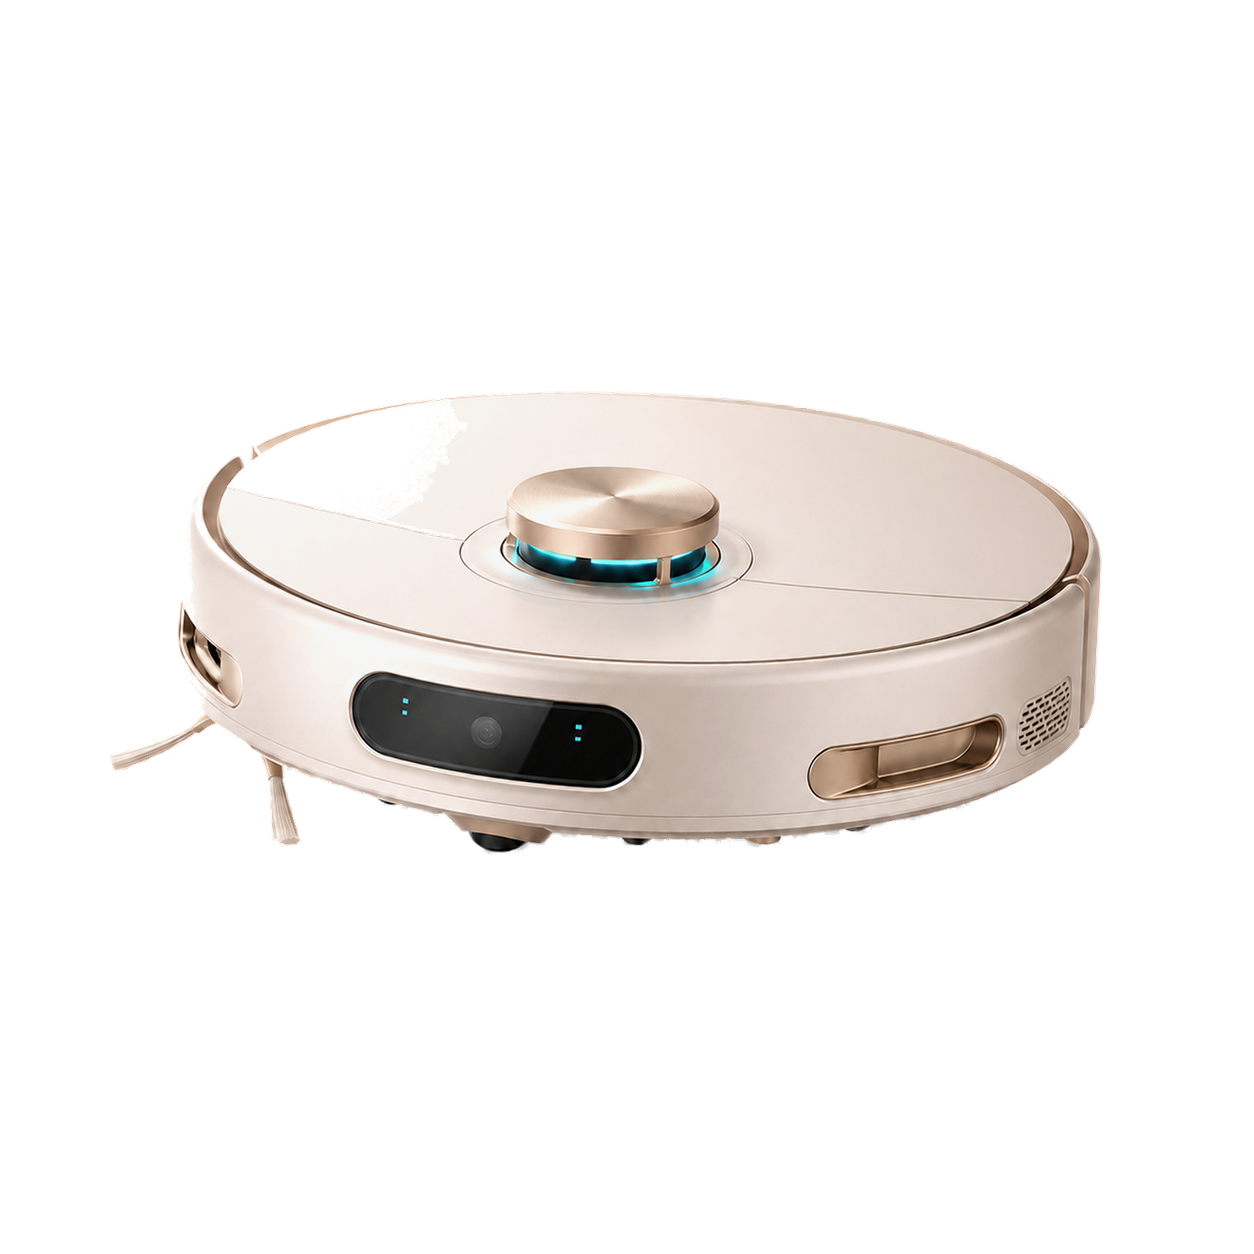
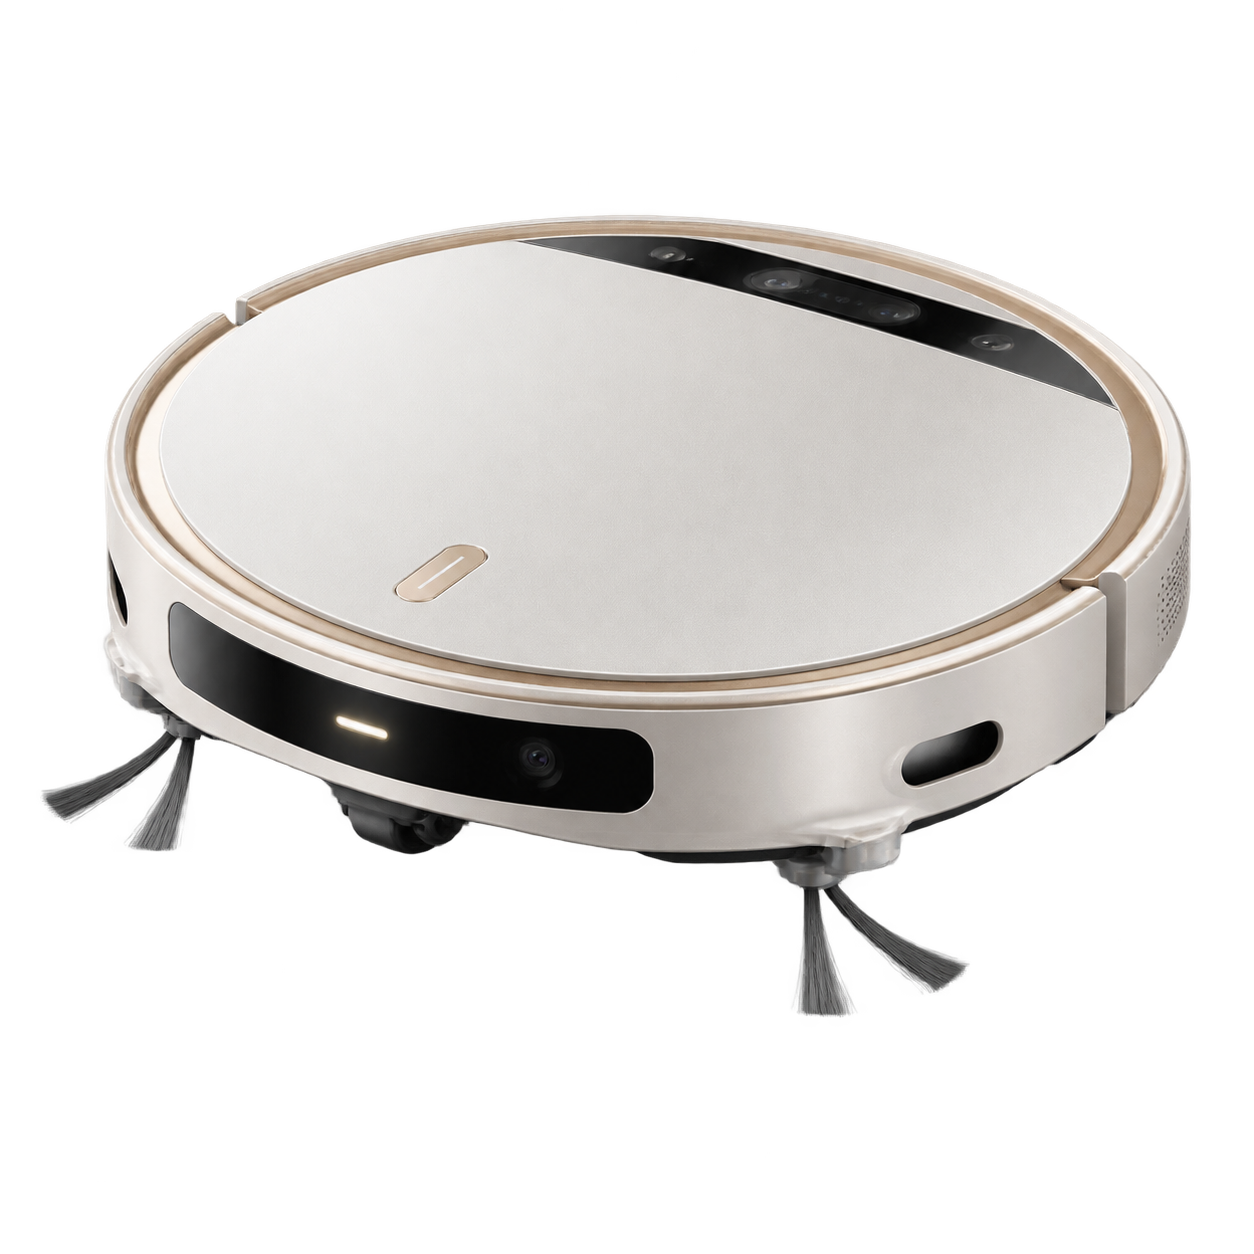
feat: use distinct generated renders for product skus

Changed region(s): [[0.0311, 0.1555, 0.9641, 0.8086]]

diff --git a/frontend/src/features/chat/RobotHero.vue b/frontend/src/features/chat/RobotHero.vue
@@ -5,8 +5,7 @@ import homeImage from '../../assets/warm-home-hero.png'
 import assistantImage from '../../assets/assistant-xiaozhi.png'
 import assistantWaveImage from '../../assets/assistant-xiaozhi-wave.png'
 import assistantPointImage from '../../assets/assistant-xiaozhi-point.png'
-import { robotImages, type RobotImageVariant } from './robotImages'
-import './robotImages.css'
+import { robotImages } from './robotImages'
 
 const props = defineProps<{
   authenticated: boolean
@@ -21,7 +20,6 @@ const emit = defineEmits<{
 type RobotProduct = {
   id: string
   image: string
-  imageVariant: RobotImageVariant
   name: string
   subtitle: string
   description: string
@@ -39,32 +37,32 @@ type RobotProduct = {
 
 const products: RobotProduct[] = [
   {
-    id: 's8-luna', image: robotImages['s8-luna'].src, imageVariant: robotImages['s8-luna'].variant, name: 'S8 皓月', subtitle: '静音深度清洁',
+    id: 's8-luna', image: robotImages['s8-luna'].src, name: 'S8 皓月', subtitle: '静音深度清洁',
     description: '面向一居室、儿童房与夜间清扫；56 dB 静音运行，双线激光识别桌腿、电线和低矮障碍。', stat: '56 dB', accent: '#d9b07a', price: 3499, priceNote: '含基础上门安装与一年质保',
     features: ['双线激光避障', '零缠绕主刷', '静音夜航模式'], scene: '一居室、儿童房、夜间清扫', floor: '木地板 / 瓷砖 / 短毛地毯', care: '避障优先，降低夜间噪声', heroIndex: 0, featured: true,
   },
   {
-    id: 'x9-obsidian', image: robotImages['x9-obsidian'].src, imageVariant: robotImages['x9-obsidian'].variant, name: 'X9 曜石', subtitle: '全屋导航旗舰',
+    id: 'x9-obsidian', image: robotImages['x9-obsidian'].src, name: 'X9 曜石', subtitle: '全屋导航旗舰',
     description: '面向三居及复式大户型；12,000 Pa 吸力搭配多层地图，能按房间、楼层与清洁顺序自动重规划。', stat: '12,000 Pa', accent: '#7ec5d7', price: 4999, priceNote: '含自动集尘基站与两年质保',
     features: ['D 型边角贴合', '多层地图记忆', '12,000 Pa 强劲吸力'], scene: '三居、复式与开放式客餐厅', floor: '瓷砖 / 木地板 / 中短毛地毯', care: '大面积高频吸尘与分区管理', heroIndex: 1, featured: true,
   },
   {
-    id: 'm6-terra', image: robotImages['m6-terra'].src, imageVariant: robotImages['m6-terra'].variant, name: 'M6 霞陶', subtitle: '地面精细护理',
+    id: 'm6-terra', image: robotImages['m6-terra'].src, name: 'M6 霞陶', subtitle: '地面精细护理',
     description: '面向地毯与硬质地面混铺家庭；双旋拖布遇地毯自动抬升，180 分钟续航覆盖大面积拖洗。', stat: '180 min', accent: '#c9825d', price: 4599, priceNote: '含旋转拖布套件与两年质保',
     features: ['双旋拖布升降', '地毯自动增压', '180 分钟续航'], scene: '地毯混铺、餐桌区与高频拖洗', floor: '木地板 / 瓷砖 / 地毯混铺', care: '拖布抬升，避免湿拖地毯', heroIndex: 2, featured: true,
   },
   {
-    id: 's8-air', image: robotImages['s8-air'].src, imageVariant: robotImages['s8-air'].variant, name: 'S8 Air', subtitle: '小户型轻量方案',
+    id: 's8-air', image: robotImages['s8-air'].src, name: 'S8 Air', subtitle: '小户型轻量方案',
     description: '面向租房、一居与书房；纤薄机身可进入沙发、床底，宠物毛发模式减少毛发缠绕和重复回扫。', stat: '0.4 L', accent: '#b9996d', price: 2799, priceNote: '含耗材礼包与一年质保',
     features: ['纤薄机身', '宠物毛发模式', '一键分区清洁'], scene: '租房、一居、书房与养宠家庭', floor: '木地板 / 瓷砖 / 低矮家具底部', care: '轻量日常维护与毛发收集', heroIndex: 0,
   },
   {
-    id: 'x9-edge', image: robotImages['x9-edge'].src, imageVariant: robotImages['x9-edge'].variant, name: 'X9 Edge', subtitle: '边角强化清洁',
+    id: 'x9-edge', image: robotImages['x9-edge'].src, name: 'X9 Edge', subtitle: '边角强化清洁',
     description: '面向桌椅多、墙根多的户型；D 型机身与伸缩边刷贴近踢脚线，重点补扫墙角和餐桌腿周边。', stat: '99.2%', accent: '#679fb1', price: 4299, priceNote: '含边角清洁套件与两年质保',
     features: ['毫米级贴边', '伸缩边刷', '家具识别建图'], scene: '餐桌区、桌椅密集与复杂墙角', floor: '瓷砖 / 木地板 / 踢脚线边缘', care: '贴边补扫，减少转角遗漏', heroIndex: 1,
   },
   {
-    id: 'm6-mini', image: robotImages['m6-mini'].src, imageVariant: robotImages['m6-mini'].variant, name: 'M6 Mini', subtitle: '木地板温柔护理',
+    id: 'm6-mini', image: robotImages['m6-mini'].src, name: 'M6 Mini', subtitle: '木地板温柔护理',
     description: '面向原木地板、婴幼儿活动区；三档电子控水避免积水，低压拖洗适合日常浮灰与轻污渍。', stat: '3 档水量', accent: '#ad7057', price: 3299, priceNote: '含地板护理拖布与一年质保',
     features: ['电子水量控制', '可拆洗拖布盘', '低噪缓行模式'], scene: '原木地板、儿童活动区与轻污渍', floor: '原木 / 复合木地板 / 瓷砖', care: '控水湿拖，降低地板受潮风险', heroIndex: 2,
   },
@@ -179,7 +177,7 @@ function releaseTarget(event: PointerEvent) {
 
     <div class="robot-hero__carousel" aria-label="机器人型号轮播">
       <button v-for="(robot, index) in robots" :key="robot.id" class="robot-hero__robot" :class="[`is-${roleFor(index)}`, { 'is-active': index === activeIndex }]" type="button" :aria-label="`查看 ${robot.name}`" @mouseenter="selectRobot(index)" @focus="selectRobot(index)" @click="index === activeIndex ? openProduct(robot) : selectRobot(index)">
-        <img :class="['robot-image', `robot-image--${robot.imageVariant}`]" :src="robot.image" :alt="`${robot.name} 扫地机器人`" draggable="false" />
+        <img :src="robot.image" :alt="`${robot.name} 扫地机器人`" draggable="false" />
         <span class="robot-hero__model">{{ robot.name }} · 查看价格</span>
       </button>
     </div>
@@ -212,7 +210,7 @@ function releaseTarget(event: PointerEvent) {
     <div class="robot-lineup__catalog">
       <button v-for="(robot, index) in products" :key="robot.id" class="robot-lineup__card" :class="{ 'is-targeted': targetProductId === robot.id }" :style="{ '--card-accent': robot.accent, '--card-order': index }" type="button" @mouseenter="selectRobot(robot.heroIndex); highlightProduct(robot)" @pointerenter="lockTarget($event, robot)" @pointermove="lockTarget($event, robot)" @pointerleave="releaseTarget" @focus="selectRobot(robot.heroIndex); highlightProduct(robot)" @click="openProduct(robot)">
         <div class="robot-lineup__head"><p>0{{ index + 1 }} / SERIES</p><h3>{{ robot.name }}</h3><b>{{ robot.subtitle }}</b></div>
-         <div class="robot-lineup__image" :class="`robot-lineup__image--shape-${robot.heroIndex}`"><img :class="['robot-image', `robot-image--${robot.imageVariant}`]" :src="robot.image" :alt="`${robot.name} 机身细节`" /><span class="robot-lineup__focus-zone" aria-hidden="true"></span></div>
+         <div class="robot-lineup__image" :class="`robot-lineup__image--shape-${robot.heroIndex}`"><img :src="robot.image" :alt="`${robot.name} 机身细节`" /><span class="robot-lineup__focus-zone" aria-hidden="true"></span></div>
         <div class="robot-lineup__foot"><small>适用：{{ robot.scene }}</small><span>{{ robot.description }}</span><i>查看配置与价格 <strong>→</strong></i></div>
       </button>
     </div>
@@ -223,7 +221,7 @@ function releaseTarget(event: PointerEvent) {
     <div v-if="selectedProduct" class="robot-dialog" role="presentation" @click.self="selectedProduct = null">
       <section class="robot-dialog__panel" role="dialog" aria-modal="true" :aria-labelledby="`product-${selectedProduct.id}`">
         <button class="robot-dialog__close" type="button" aria-label="关闭产品详情" @click="selectedProduct = null">×</button>
-         <div class="robot-dialog__visual" :style="{ '--dialog-accent': selectedProduct.accent }"><img :class="['robot-image', `robot-image--${selectedProduct.imageVariant}`]" :src="selectedProduct.image" :alt="selectedProduct.name" /></div>
+         <div class="robot-dialog__visual" :style="{ '--dialog-accent': selectedProduct.accent }"><img :src="selectedProduct.image" :alt="selectedProduct.name" /></div>
         <div class="robot-dialog__content">
           <p>ZENMOP / SMART HOME</p><h2 :id="`product-${selectedProduct.id}`">{{ selectedProduct.name }}</h2><b>{{ selectedProduct.subtitle }}</b>
           <span class="robot-dialog__price">¥ {{ selectedProduct.price.toLocaleString('zh-CN') }}</span><small>模拟起售价 · {{ selectedProduct.priceNote }}</small>
@@ -320,5 +318,5 @@ function releaseTarget(event: PointerEvent) {
 /* Keep each catalog variant visible in every presentation surface. */
 .robot-hero__robot img,
 .robot-lineup__image img,
-.robot-dialog__visual img { filter: var(--robot-image-filter, none) drop-shadow(0 24px 18px rgba(43, 25, 11, .24)); }
+.robot-dialog__visual img { filter: drop-shadow(0 24px 18px rgba(43, 25, 11, .24)); }
 </style>

diff --git a/frontend/src/features/chat/ProductRecommendations.vue b/frontend/src/features/chat/ProductRecommendations.vue
@@ -1,19 +1,18 @@
 <script setup lang="ts">
 import { computed } from 'vue'
 import type { ProductRecommendationView } from '../../stores/chat'
-import { robotImages, type RobotImageVariant } from './robotImages'
-import './robotImages.css'
+import { robotImages } from './robotImages'
 
 const props = defineProps<{ recommendations: ProductRecommendationView[] }>()
 const emit = defineEmits<{ select: [productId: string] }>()
 
-const productIndex: Record<string, { name: string; subtitle: string; image: string; imageVariant: RobotImageVariant }> = {
-  's8-luna': { name: 'S8 皓月', subtitle: '静音深度清洁', image: robotImages['s8-luna'].src, imageVariant: robotImages['s8-luna'].variant },
-  's8-air': { name: 'S8 Air', subtitle: '小户型轻量方案', image: robotImages['s8-air'].src, imageVariant: robotImages['s8-air'].variant },
-  'x9-obsidian': { name: 'X9 曜石', subtitle: '全屋导航旗舰', image: robotImages['x9-obsidian'].src, imageVariant: robotImages['x9-obsidian'].variant },
-  'x9-edge': { name: 'X9 Edge', subtitle: '边角强化清洁', image: robotImages['x9-edge'].src, imageVariant: robotImages['x9-edge'].variant },
-  'm6-terra': { name: 'M6 霁陶', subtitle: '地面精细护理', image: robotImages['m6-terra'].src, imageVariant: robotImages['m6-terra'].variant },
-  'm6-mini': { name: 'M6 Mini', subtitle: '木地板温柔护理', image: robotImages['m6-mini'].src, imageVariant: robotImages['m6-mini'].variant },
+const productIndex: Record<string, { name: string; subtitle: string; image: string }> = {
+  's8-luna': { name: 'S8 皓月', subtitle: '静音深度清洁', image: robotImages['s8-luna'].src },
+  's8-air': { name: 'S8 Air', subtitle: '小户型轻量方案', image: robotImages['s8-air'].src },
+  'x9-obsidian': { name: 'X9 曜石', subtitle: '全屋导航旗舰', image: robotImages['x9-obsidian'].src },
+  'x9-edge': { name: 'X9 Edge', subtitle: '边角强化清洁', image: robotImages['x9-edge'].src },
+  'm6-terra': { name: 'M6 霁陶', subtitle: '地面精细护理', image: robotImages['m6-terra'].src },
+  'm6-mini': { name: 'M6 Mini', subtitle: '木地板温柔护理', image: robotImages['m6-mini'].src },
 }
 
 const products = computed(() => props.recommendations.flatMap(recommendation => {
@@ -27,7 +26,7 @@ const products = computed(() => props.recommendations.flatMap(recommendation => 
     <p>匹配方案</p>
     <div class="recommendations__grid">
       <button v-for="product in products" :key="product.productId" type="button" class="recommendation-card" @click="emit('select', product.productId)">
-        <img :class="['robot-image', `robot-image--${product.imageVariant}`]" :src="product.image" :alt="product.name" />
+        <img :src="product.image" :alt="product.name" />
         <span><b>{{ product.name }}</b><small>{{ product.price ? `¥${product.price.toLocaleString()}` : product.subtitle }}</small><em>{{ product.highlights?.slice(0, 2).join(' · ') || product.subtitle }}</em><em v-if="product.reason">{{ product.reason }}</em></span>
         <i>查看</i>
       </button>
@@ -41,7 +40,7 @@ const products = computed(() => props.recommendations.flatMap(recommendation => 
 .recommendations__grid { display: grid; grid-template-columns: repeat(auto-fit, minmax(190px, 1fr)); gap: 8px; }
 .recommendation-card { min-height: 92px; padding: 10px; display: grid; grid-template-columns: 66px minmax(0, 1fr) auto; align-items: center; gap: 10px; border: 1px solid rgba(78, 104, 120, .28); border-radius: 2px; background: rgba(255, 255, 255, .72); color: #173043; text-align: left; transition: border-color .18s ease, transform .18s ease, box-shadow .18s ease; }
 .recommendation-card:hover { border-color: #4f89aa; box-shadow: 0 8px 18px rgba(31, 74, 98, .12); transform: translateY(-1px); }
-.recommendation-card img { width: 62px; height: 62px; object-fit: contain; filter: var(--robot-image-filter, none) drop-shadow(0 8px 8px rgba(22, 47, 62, .16)); }
+.recommendation-card img { width: 62px; height: 62px; object-fit: contain; filter: drop-shadow(0 8px 8px rgba(22, 47, 62, .16)); }
 .recommendation-card span { min-width: 0; display: grid; gap: 3px; }
 .recommendation-card b { font-size: 12px; }.recommendation-card small, .recommendation-card em { color: #627483; font-size: 10px; font-style: normal; line-height: 1.35; }.recommendation-card i { color: #2c6d91; font-size: 10px; font-style: normal; white-space: nowrap; }
 </style>

diff --git a/frontend/src/features/chat/robotImages.ts b/frontend/src/features/chat/robotImages.ts
@@ -5,24 +5,15 @@ import x9EdgeRobot from '../../assets/robot-x9-edge.png'
 import m6TerraRobot from '../../assets/robot-m6-terra.png'
 import m6MiniRobot from '../../assets/robot-m6-mini.png'
 
-export type RobotImageVariant =
-  | 'ivory-luna'
-  | 'ivory-air'
-  | 'graphite-obsidian'
-  | 'graphite-edge'
-  | 'terracotta-terra'
-  | 'terracotta-mini'
-
 export type RobotImageAsset = {
   src: string
-  variant: RobotImageVariant
 }
 
 export const robotImages: Record<string, RobotImageAsset> = {
-  's8-luna': { src: s8LunaRobot, variant: 'ivory-luna' },
-  's8-air': { src: s8AirRobot, variant: 'ivory-air' },
-  'x9-obsidian': { src: x9ObsidianRobot, variant: 'graphite-obsidian' },
-  'x9-edge': { src: x9EdgeRobot, variant: 'graphite-edge' },
-  'm6-terra': { src: m6TerraRobot, variant: 'terracotta-terra' },
-  'm6-mini': { src: m6MiniRobot, variant: 'terracotta-mini' },
+  's8-luna': { src: s8LunaRobot },
+  's8-air': { src: s8AirRobot },
+  'x9-obsidian': { src: x9ObsidianRobot },
+  'x9-edge': { src: x9EdgeRobot },
+  'm6-terra': { src: m6TerraRobot },
+  'm6-mini': { src: m6MiniRobot },
 }

diff --git a/frontend/src/features/chat/robotImages.spec.ts b/frontend/src/features/chat/robotImages.spec.ts
@@ -2,10 +2,8 @@ import { describe, expect, it } from 'vitest'
 import { robotImages } from './robotImages'
 
 describe('robot image catalog', () => {
-  it('keeps every product id mapped to a distinct visual variant', () => {
-    const variants = Object.values(robotImages).map((image) => image.variant)
+  it('keeps every product id mapped to a dedicated image asset', () => {
     expect(Object.keys(robotImages)).toHaveLength(6)
-    expect(new Set(variants)).toHaveLength(6)
   })
 
   it('keeps every product image source non-empty', () => {

diff --git a/tools/import_robot_product_images.py b/tools/import_robot_product_images.py
@@ -1,0 +1,40 @@
+"""Import generated product renders into the frontend asset catalog.
+
+The X9 Edge export has a light checkerboard baked into an RGB image. Convert
+that known background range to transparency before copying it into the app.
+"""
+
+from pathlib import Path
+
+from PIL import Image
+
+
+ROOT = Path(__file__).resolve().parents[1]
+SOURCE = Path(r"D:\edge下载")
+ASSETS = ROOT / "frontend" / "src" / "assets"
+
+
+def remove_light_checkerboard(source: Path, target: Path) -> None:
+    image = Image.open(source).convert("RGB")
+    pixels = []
+    for red, green, blue in image.getdata():
+        # Checkerboard cells are neutral near-white (#f2f2f2 to #ffffff).
+        is_background = min(red, green, blue) >= 232 and max(red, green, blue) - min(red, green, blue) <= 12
+        pixels.append((red, green, blue, 0 if is_background else 255))
+    result = Image.new("RGBA", image.size)
+    result.putdata(pixels)
+    result.save(target, format="PNG", optimize=True)
+
+
+def copy_transparent(source: Path, target: Path) -> None:
+    Image.open(source).convert("RGBA").save(target, format="PNG", optimize=True)
+
+
+def main() -> None:
+    copy_transparent(SOURCE / "image-1786866333991-01.png", ASSETS / "robot-s8-air.png")
+    remove_light_checkerboard(SOURCE / "image-1786873172213-01 (1).png", ASSETS / "robot-x9-edge.png")
+    copy_transparent(SOURCE / "image-1786873282387-01.png", ASSETS / "robot-m6-mini.png")
+
+
+if __name__ == "__main__":
+    main()
